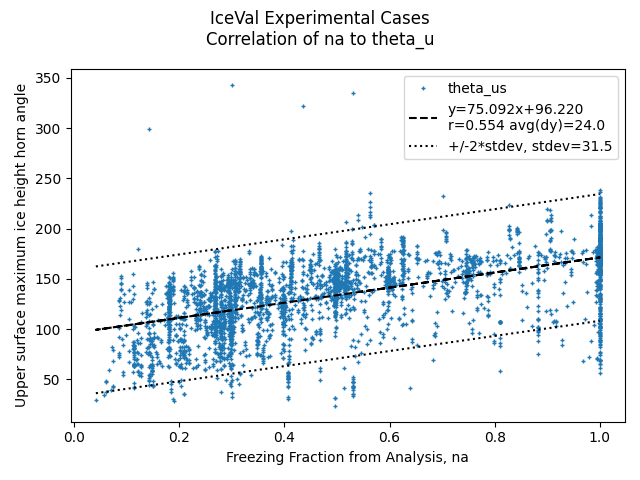
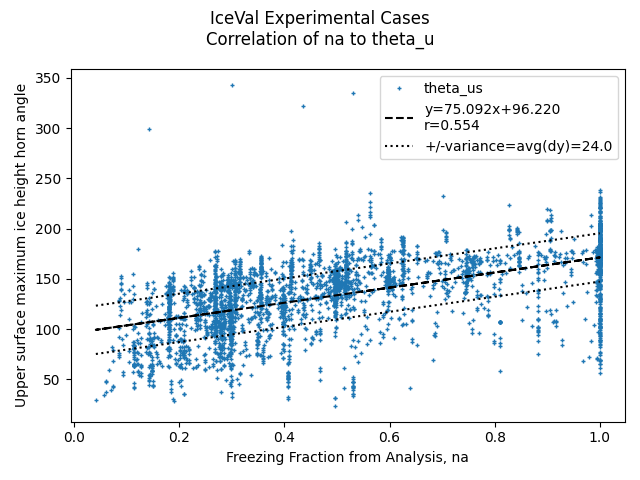
draft testing-messinger-freezing-fraction-correlations-with-the-iceval-database.html

diff --git a/docs/drafts/testing-messinger-freezing-fraction-correlations-with-the-iceval-database.html b/docs/drafts/testing-messinger-freezing-fraction-correlations-with-the-iceval-database.html
@@ -38,8 +38,8 @@
                 Published: Mon 08 June 2026
         </abbr>
 		<br />
-        <abbr class="modified" title="2026-06-08T18:10:05.284805-07:00">
-                Updated: Mon 08 June 2026
+        <abbr class="modified" title="2026-06-09T08:00:42.434404-07:00">
+                Updated: Tue 09 June 2026
         </abbr>
 <!---->
         <!---->

diff --git a/content/ffs.md b/content/ffs.md
@@ -196,7 +196,7 @@ Except for case JF1599, where the wrong test ice tracing is likely to have been 
 I judge the nx correlation results to be accurate or "conservative" 
 (likely to yield too large of a performance penalty).  
 
-## Notes about LEWICE and THICK  
+## Notes about LEWICE and THICK   
 
 LEWICE can calculate a leading edge initial freezing fraction. 
 However, you will find that the LEWICE value do not always correspond well to values calculated using 
